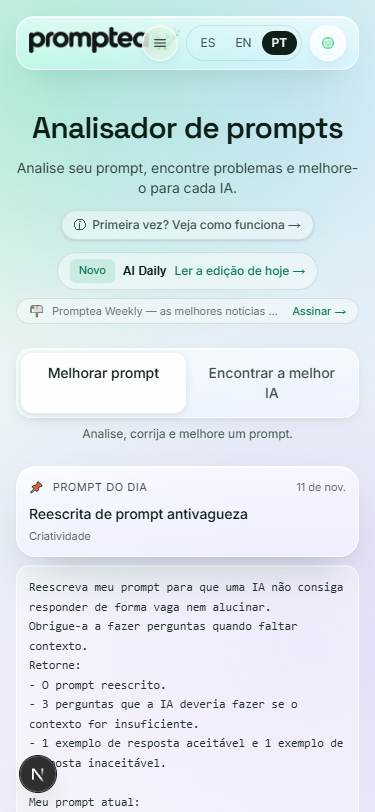
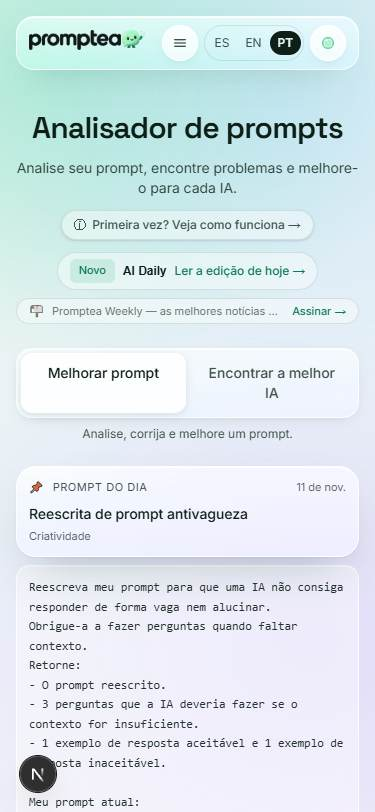
v1.8.2 (fase 6) — QA en Chrome real, header móvil con tres idiomas y capturas
- scripts/release/i18n-qa.mjs: 23 páginas × 3 idiomas × 1440/375 px (3 temas
  × claro/oscuro en home y analizador) + flujo del analizador con un prompt
  en portugués. 198 cargas, 0 fallos. Capturas en docs/release/v1.8.2/.
- Header móvil: el logo baja a 20 px y el switcher ES | EN | PT se compacta
  para entrar en una fila hasta 320 px.
- seo:check sobre el build local: 674 verificaciones, 0 fallos.

Changed region(s): [[0.0587, 0.0308, 0.8213, 0.0924]]

diff --git a/components/LanguageSwitcher.tsx b/components/LanguageSwitcher.tsx
@@ -29,7 +29,7 @@ export default function LanguageSwitcher({ lang, label }: { lang: Lang; label: s
   const pathname = usePathname() ?? `/${lang}`;
 
   return (
-    <nav aria-label={label} data-language-switcher className="inline-flex h-9 shrink-0 items-center rounded-full border border-line bg-transparent p-1 text-xs">
+    <nav aria-label={label} data-language-switcher className="inline-flex h-9 shrink-0 items-center rounded-full border border-line bg-transparent p-0.5 text-xs sm:p-1">
       {LANGS.map((l) => {
         const active = l === lang;
         return (
@@ -42,7 +42,8 @@ export default function LanguageSwitcher({ lang, label }: { lang: Lang; label: s
             aria-current={active ? "true" : undefined}
             title={LANG_NAME[l]}
             className={[
-              "rounded-full px-2.5 py-1 transition sm:px-3",
+              // Three languages on a 375 px header: tighter on phones, the v1.8.1 size from `sm` up.
+              "rounded-full px-2 py-1 transition max-[340px]:px-1.5 sm:px-3",
               active ? "bg-ink text-canvas font-medium" : "text-ink-muted hover:text-ink",
             ].join(" ")}
           >

diff --git a/components/TopBar.tsx b/components/TopBar.tsx
@@ -118,7 +118,8 @@ export default function TopBar({ lang, dict }: { lang: Lang; dict: NavDict }) {
             <span className="hidden lg:block" aria-hidden="true" />
           ) : (
             <Link href={`/${lang}`} className="rounded-sm transition-opacity hover:opacity-80" aria-label={dict.home}>
-              <BrandLogo height={26} />
+              {/* v1.8.2: a third language in the switcher — the logo is a little smaller below `sm` so both fit down to 320 px. */}
+              <BrandLogo height={20} smHeight={26} />
             </Link>
           )}
           {/* Below lg the menu button takes the left slot on the home page, so the row never looks empty. */}
@@ -160,7 +161,7 @@ export default function TopBar({ lang, dict }: { lang: Lang; dict: NavDict }) {
         </nav>
 
         {/* Right: language + theme (+ the menu button on internal pages below lg) */}
-        <div className="flex items-center justify-end gap-2">
+        <div className="flex items-center justify-end gap-1.5 sm:gap-2">
           {!isHome ? (
             <button
               ref={btnRef}

diff --git a/README.md b/README.md
@@ -125,6 +125,7 @@ npm run build      # production build (works offline — fonts are local)
 
 - `node scripts/brand/build-brand-assets.mjs` — regenerates every brand raster (wordmark light/dark, mascot, favicons, apple-touch, manifest and OG artwork) from `public/brand/promptea-logo-mascot-source.png`.
 - `node scripts/release/audit.mjs --base=http://localhost:3182 [--shots] [--quick] [--out=dir]` — real-Chrome audit of 23 pages across 5 widths (1920, 1440, 1024, 768, 375) × themes × colour schemes: console/hydration errors, horizontal overflow, CLS, one `<h1>`, one canonical, and (with `--shots`) the feedback-modal fill and screenshots.
+- v1.8.2: `node scripts/release/i18n-qa.mjs --base=http://localhost:3181 [--shots=1]` walks 23 pages in the three languages at 1440 and 375 px with a real Chrome (overflow, clipped text, the language switcher, `<html lang>`, untranslated strings under `/pt`, and the analyzer with a prompt written in Portuguese). Localhost only.
 - v1.8.1 release checks, all with a real Chrome (`puppeteer-core`) and all read-only against anything that is not localhost:
   - `scripts/release/benchmarks-layout.mjs` — the "Ranking by benchmark" layout at 5 widths × every category: no overlap, no card wider than its list, no gap, no overflow.
   - `scripts/release/ambient-check.mjs` — how far the ambient background moves in a few seconds, frame rate, layouts, long tasks and CLS; Metro flat, reduced motion static.
